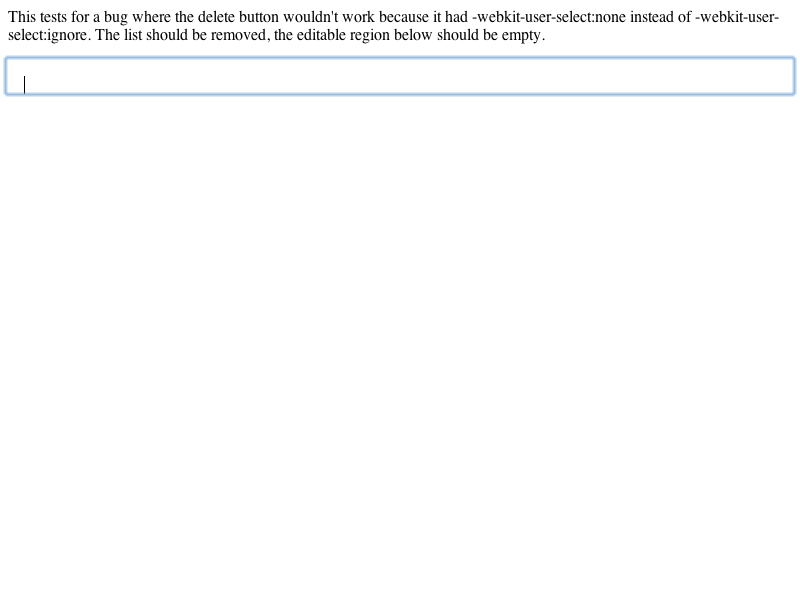
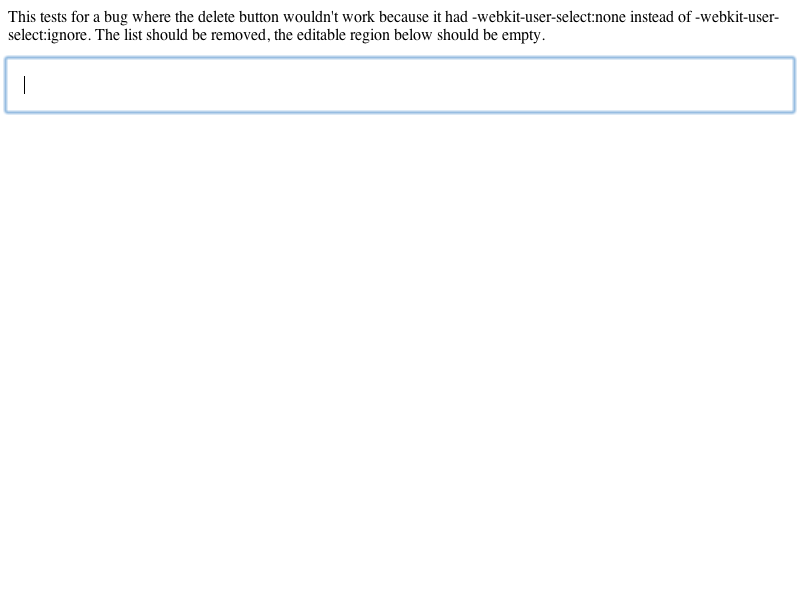
2011-01-25  Levi Weintraub  <leviw@chromium.org>
Reviewed by Darin Adler.

        Updating the expected result for 5408255 and adding tests for caret positioning at the
        beginning and end of RenderBoxes.

        Undo moves caret to invalid position
        https://bugs.webkit.org/show_bug.cgi?id=49744

        * editing/selection/caret-painting-after-paste-undo-rtl.html: Added.
        * editing/selection/caret-painting-after-paste-undo.html: Added.
        * platform/mac/editing/deleting/5408255-expected.png:
        * platform/mac/editing/selection/caret-painting-after-paste-undo-expected.checksum: Added.
        * platform/mac/editing/selection/caret-painting-after-paste-undo-expected.png: Added.
        * platform/mac/editing/selection/caret-painting-after-paste-undo-expected.txt: Added.
        * platform/mac/editing/selection/caret-painting-after-paste-undo-rtl-expected.checksum: Added.
        * platform/mac/editing/selection/caret-painting-after-paste-undo-rtl-expected.png: Added.
        * platform/mac/editing/selection/caret-painting-after-paste-undo-rtl-expected.txt: Added.
2011-01-25  Levi Weintraub  <leviw@chromium.org>

        Reviewed by Darin Adler.

        Adding border and padding to the calculation of the local caret rect for RenderBoxes.
        Corrected for mistake in r76625

        Undo moves caret to invalid position
        https://bugs.webkit.org/show_bug.cgi?id=49744

        Tests: editing/selection/caret-painting-after-paste-undo-rtl.html
[…]

Changed region(s): [[0.0, 0.15, 1.0, 0.21]]

diff --git a/editing/selection/caret-painting-after-paste-undo-rtl.html b/editing/selection/caret-painting-after-paste-undo-rtl.html
@@ -1,0 +1,21 @@
+<html>
+<head>
+<script src="../editing.js" language="JavaScript" type="text/JavaScript"></script>
+<script>
+function editingTest() {
+ doubleClick(0, 0);
+ copyCommand();
+ var editor = document.getElementById("editor");
+ editor.focus();
+ pasteCommand();
+ undoCommand();
+}
+</script>
+</head>
+<body onLoad="runEditingTest();">
+<div>To run this test, copy some text, paste it into the box below, and then undo.
+ The caret should be positioned respecting the box's border and padding.</div><br>
+<div id="editor" contenteditable=true style="direction: rtl; border:2px inset #eee; padding: 5px;">
+</div>
+</body>
+</html>

diff --git a/editing/selection/caret-painting-after-paste-undo.html b/editing/selection/caret-painting-after-paste-undo.html
@@ -1,0 +1,21 @@
+<html>
+<head>
+<script src="../editing.js" language="JavaScript" type="text/JavaScript"></script>
+<script>
+function editingTest() {
+ doubleClick(0, 0);
+ copyCommand();
+ var editor = document.getElementById("editor");
+ editor.focus();
+ pasteCommand();
+ undoCommand();
+}
+</script>
+</head>
+<body onLoad="runEditingTest();">
+<div>To run this test, copy some text, paste it into the box below, and then undo.
+ The caret should be positioned respecting the box's border and padding.</div><br>
+<div id="editor" contenteditable=true style="border:2px inset #eee; padding: 5px;">
+</div>
+</body>
+</html>
